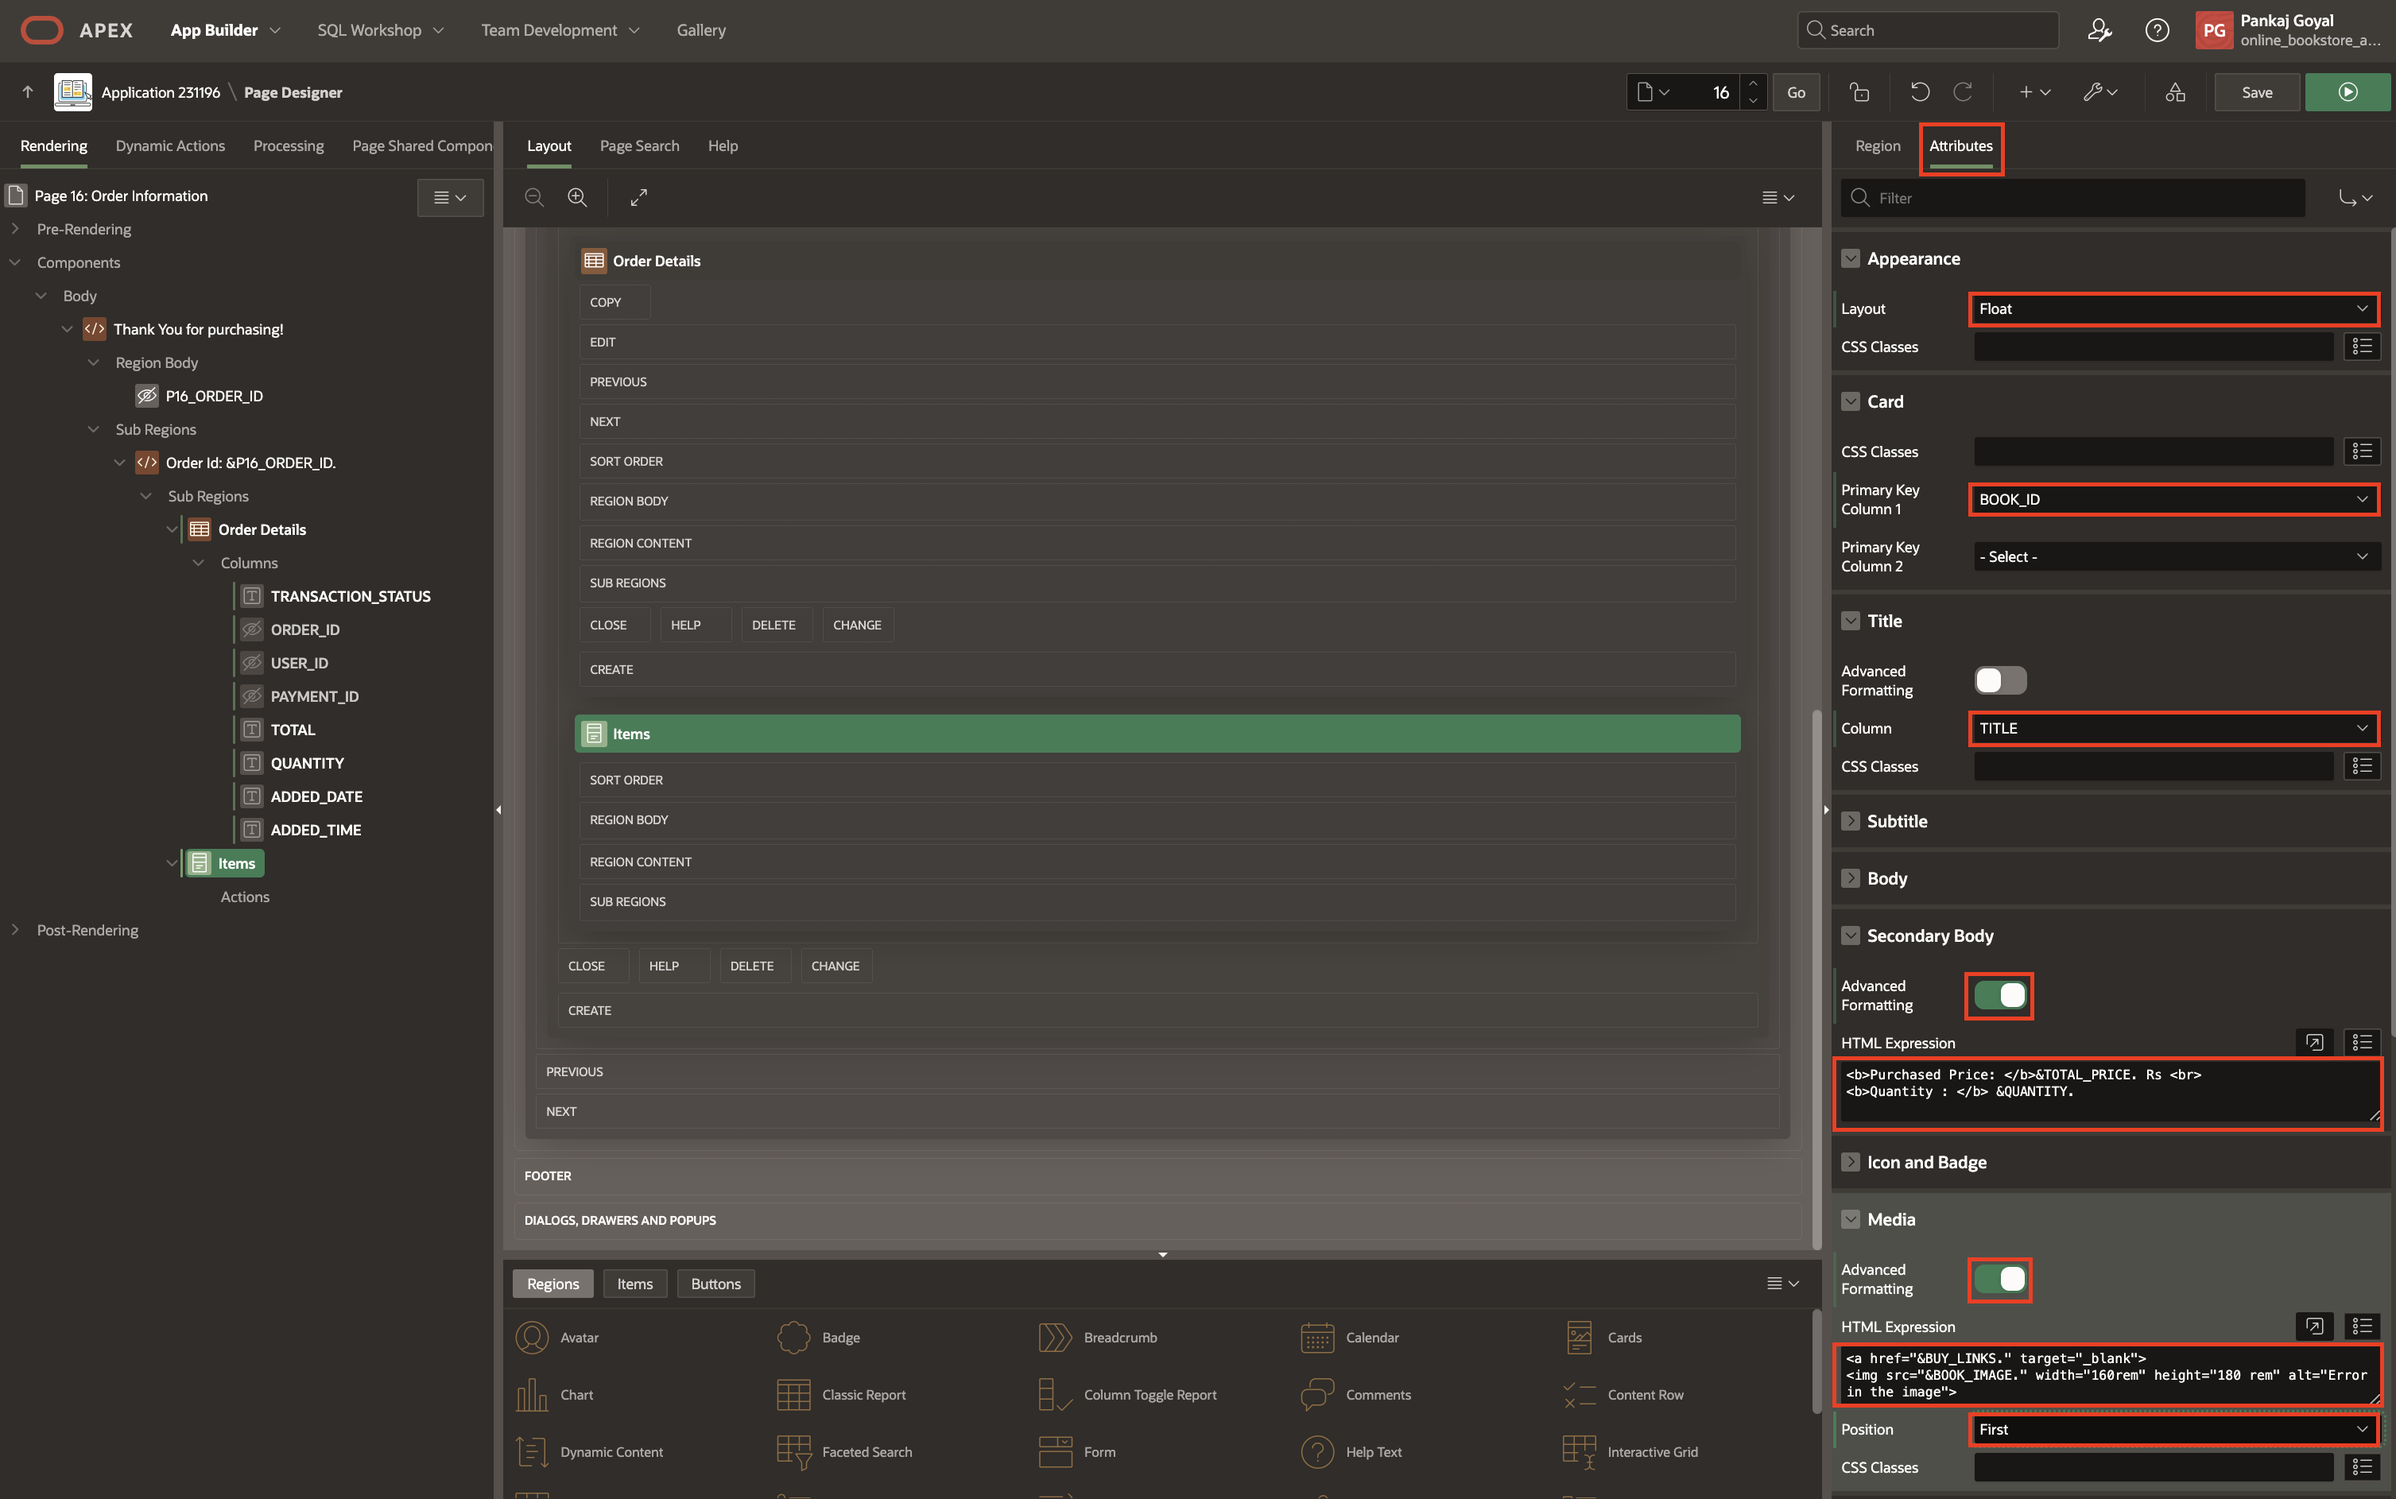
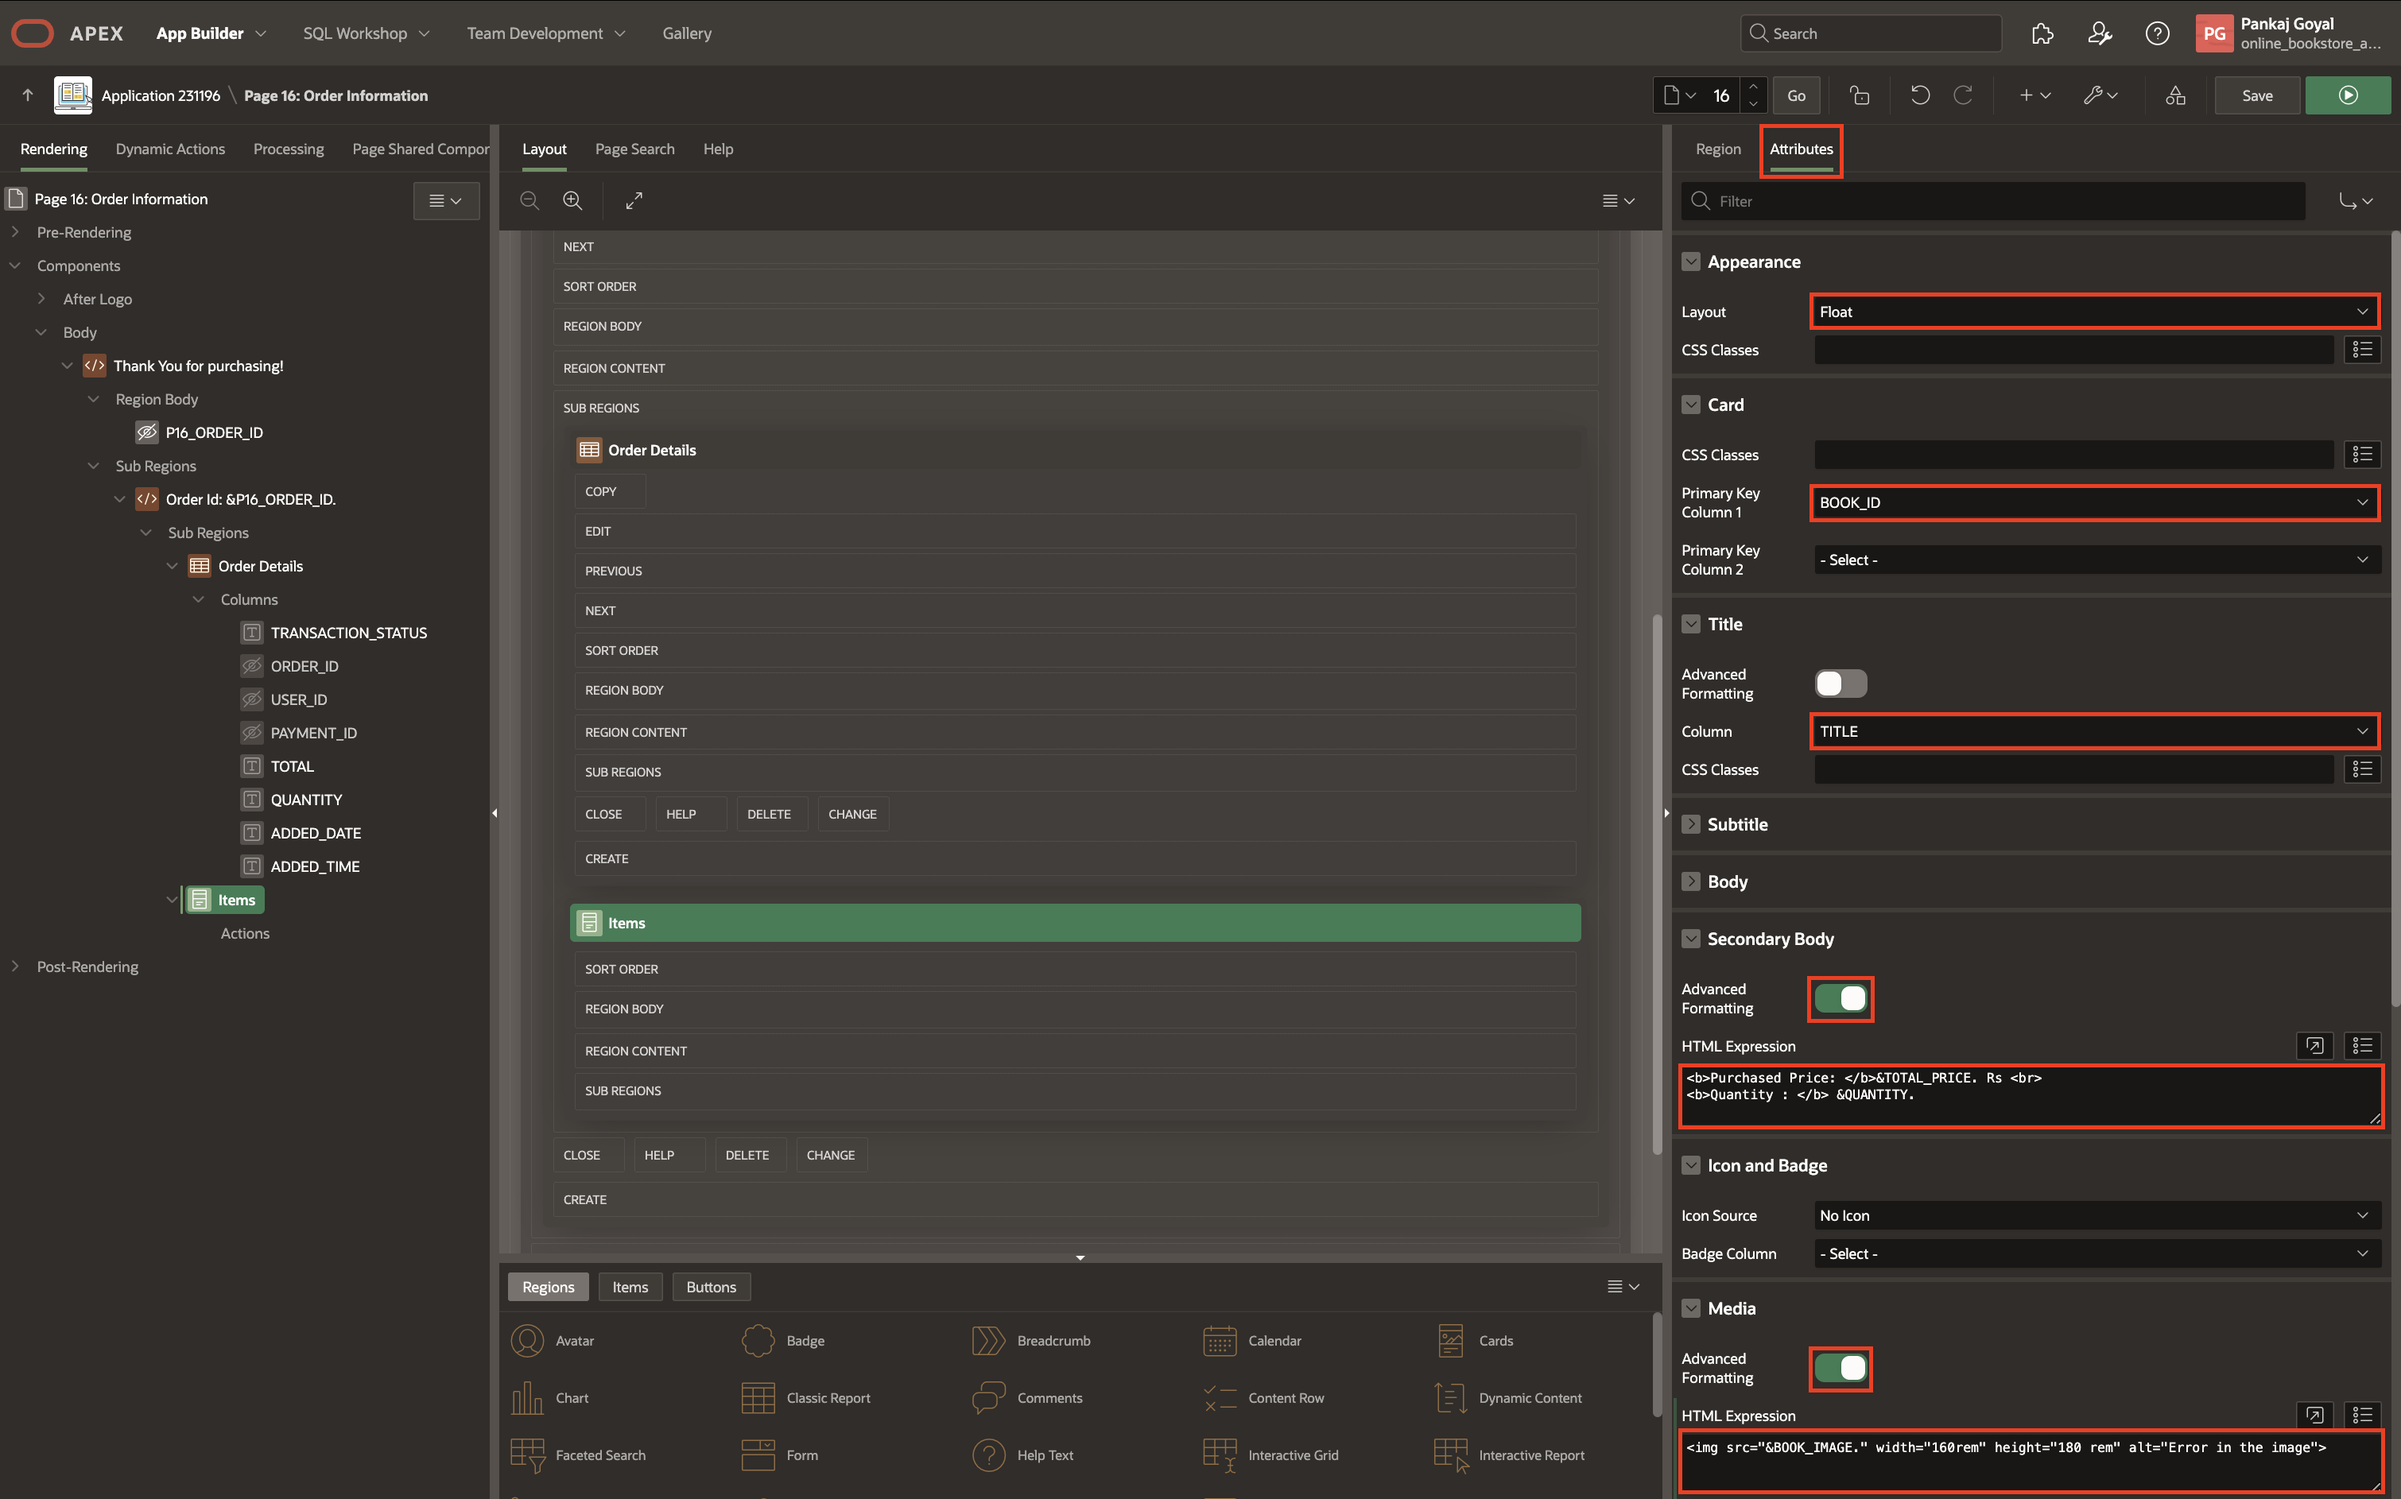
OBS 24.2 Feedback Fixes

diff --git a/online-bookstore-app/7-create-shop-cart/7-create-shop-cart.md b/online-bookstore-app/7-create-shop-cart/7-create-shop-cart.md
@@ -894,9 +894,8 @@ In this task, you'll build an Order Information page to display order details an
                 o.price,
                 (o.price) Subtotal,
                 b.book_image,
-                b.buy_links,
                 o.quantity,
-            o.price*((100-b.discount)/100) *o.quantity as total_price
+                o.price*((100-b.discount)/100) *o.quantity as total_price
         FROM   obs_order_items o,
             obs_books b
         WHERE  b.book_id = o.book_id
@@ -935,7 +934,6 @@ In this task, you'll build an Order Information page to display order details an
 
             ```
             <copy>
-            <a href="&BUY_LINKS." target="_blank">
             <img src="&BOOK_IMAGE." width="160rem" height="180 rem" alt="Error in the image">
             </copy>
             ```
